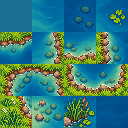
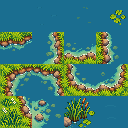
art: refine lake water candidate tiles

diff --git a/docs/art/candidates/pixel-movement/p6-lake-shore/README.md b/docs/art/candidates/pixel-movement/p6-lake-shore/README.md
@@ -1,35 +1,31 @@
 # P6-061｜月鏡湖畔 tile-ready 候選
 
-> **狀態：candidate，`approved: false`。** 使用者已接受概念方向，授權製作圖塊候選與精確 DEV 預覽。以下確切 atlas 尚未取得正式素材核准，不得併入 `content/assets.json` 或 `public/`。
+> **狀態：candidate，`approved: false`。** 使用者接受視覺方向並要求修水面重複與岸線呈現。此版仍是 DEV 候選，確切 atlas 尚未獲正式素材核准，不可併入 `content/assets.json` 或 `public/`。
 
-## 候選檔案
+## 候選檔案與雜湊
 
[3 lines of base64/hex data omitted]
-- `manifest.json`：逐格 frame、尺寸、縮放契約、來源和核准狀態。
[2 lines of base64/hex data omitted]
+- `manifest.json`：逐格 frame、尺寸、縮放契約、生成器與來源、SHA-256 和核准狀態。來源概念由內建 imagegen 依接受方向製作；原始生成模型及授權細節未提供。
+- `generate.mjs`：以 Node.js 內建 zlib 解碼來源 PNG、固定 pixel-center nearest-neighbor 裁切、降低水色對比並確定性編碼 atlas。執行 `node generate.mjs` 可重建 atlas 與 manifest。
 
-## DEV 場景檢視證據
+## DEV 遊戲畫面證據
 
[2 lines of base64/hex data omitted]
-- 兩張圖以隔離 Playwright context 載入 lake 測試存檔，使用 `renderProfile=pixel32&gate1Runtime=pixel32-map-animation&gate1LakeVisual=p6-061`。這是 DEV 預覽證據，不是實機效能數據或正式素材核准。
+以下截圖由隔離 Chromium context 載入既有 lake fixture，使用 `renderProfile=pixel32&gate1Runtime=pixel32-map-animation&gate1LakeVisual=p6-061` 擷取。它們證明候選 atlas 在目前 DEV renderer 中的呈現，不是實機效能量測或正式素材核准。
 
-## 產生與像素契約
[2 lines of base64/hex data omitted]
 
-來源圖由 OpenAI 內建 imagegen 依使用者接受的概念方向製作，並在本輪針對水面紋理及岸線做定向修訂；模型與授權細節未提供。Atlas 從 4×4 格線內各取 310×310 區域（格子起點為 1、315、628、942），避開生成圖格線，再以 FFmpeg nearest-neighbor 縮至 32×32，依 manifest 列序拼成 128×128。使用下列契約：原生 32 px、world tile 64 units、精確 2× nearest-neighbor。來源圖和 atlas 都保留在候選目錄供檢視與 hash 驗證；`water-open` 底格在裁切後以 FFmpeg 填為純色 `#1A6E90`，避免大量重複鋪設時出現規律波紋；其他水面與岸線格保留低頻變化和地物。候選仍未逐像素手工潤飾或完成所有拼接組合的無縫性驗收。
+## 水面與岸線修訂
 
-Frame 順序依 manifest 的 `frames` 列序：
+來源圖 4×4 每格以固定起點 `1, 315, 628, 942` 裁切 310×310 區域，再於 pixel center 用 nearest-neighbor 縮到 32×32，依 manifest frame 順序 row-major 拼圖。生成器只對水色像素做低對比四階藍色壓縮；`water-open` 維持純色基底 `#1A6E90`，石頭、睡蓮、蘆葦、泡沫和岸線輪廓細節則保留。這讓普通水面格彼此一致，裝飾格仍保留石頭、睡蓮和少量低對比漣漪，不再以高反差水波造成明顯藍綠方塊。
 
-1. 水面變化：平靜水紋、小波光、石影、睡蓮。
-2. 四向單邊岸線：北、東、南、西。
-3. 岸線組合與淺水：西北角、環形灣、淺灘石、東北角。
-4. 草岸蘆葦、淺水卵石、蘆葦叢與裝飾漣漪。
+岸邊格沿用北、東、南、西單邊與角落／灣岸組合，保留岩石、草沿與淺水交界。現有 `lake.json` 是矩形地圖；素材候選只能讓既有邊緣更像連續河岸，不能改變水域拓撲或把岸線延伸到目前地圖邊界以外。截圖仍可見地圖造成的大致直線邊界，這是已知限制。
 
-## 執行邊界
+## 執行界線與限制
 
-- 遊戲內預覽只在 DEV、pixel32 runtime 與明確的湖岸候選 query 同時啟用時讀取候選圖。
-- 候選只繪製 `lake.json` 現有 grass/path/water 鄰接；地圖 schema、碰撞、移動、釣魚判定、存檔與正式素材 manifest 維持原狀。
-- 漣漪 frame 為靜態視覺樣本，不代表可釣位置或新釣魚規則。
-- 本版水面基底刻意降低波紋頻率與亮點密度；岸線格仍需以實際 DEV 畫面檢查重複節奏、接縫、顏色與邊緣可讀性。
-- 使用者必須檢視 `atlas.png` 與上列 atlas SHA-256，正式素材整合才可進行。接受視覺方向不等於核准確切素材。
+- DEV 預覽只有在 Vite DEV、pixel32 runtime 與精確湖岸 query 同時啟用時才載入候選圖。
+- 候選只根據 `lake.json` 現有 grass/path/water 鄰接繪製；不改地圖 schema、碰撞、移動、釣魚判定、存檔、`public/` 或 `content/assets.json`。
+- `fishing-ripple` 是靜態裝飾樣本，不代表可釣位置或釣魚規則。
+- 仍需人工檢查各岸線組合的接縫與不同背景下的可讀性。檢視方向已授權不等於核准此精確 atlas；正式整合前請核對上述 atlas SHA-256 並另行簽核。
